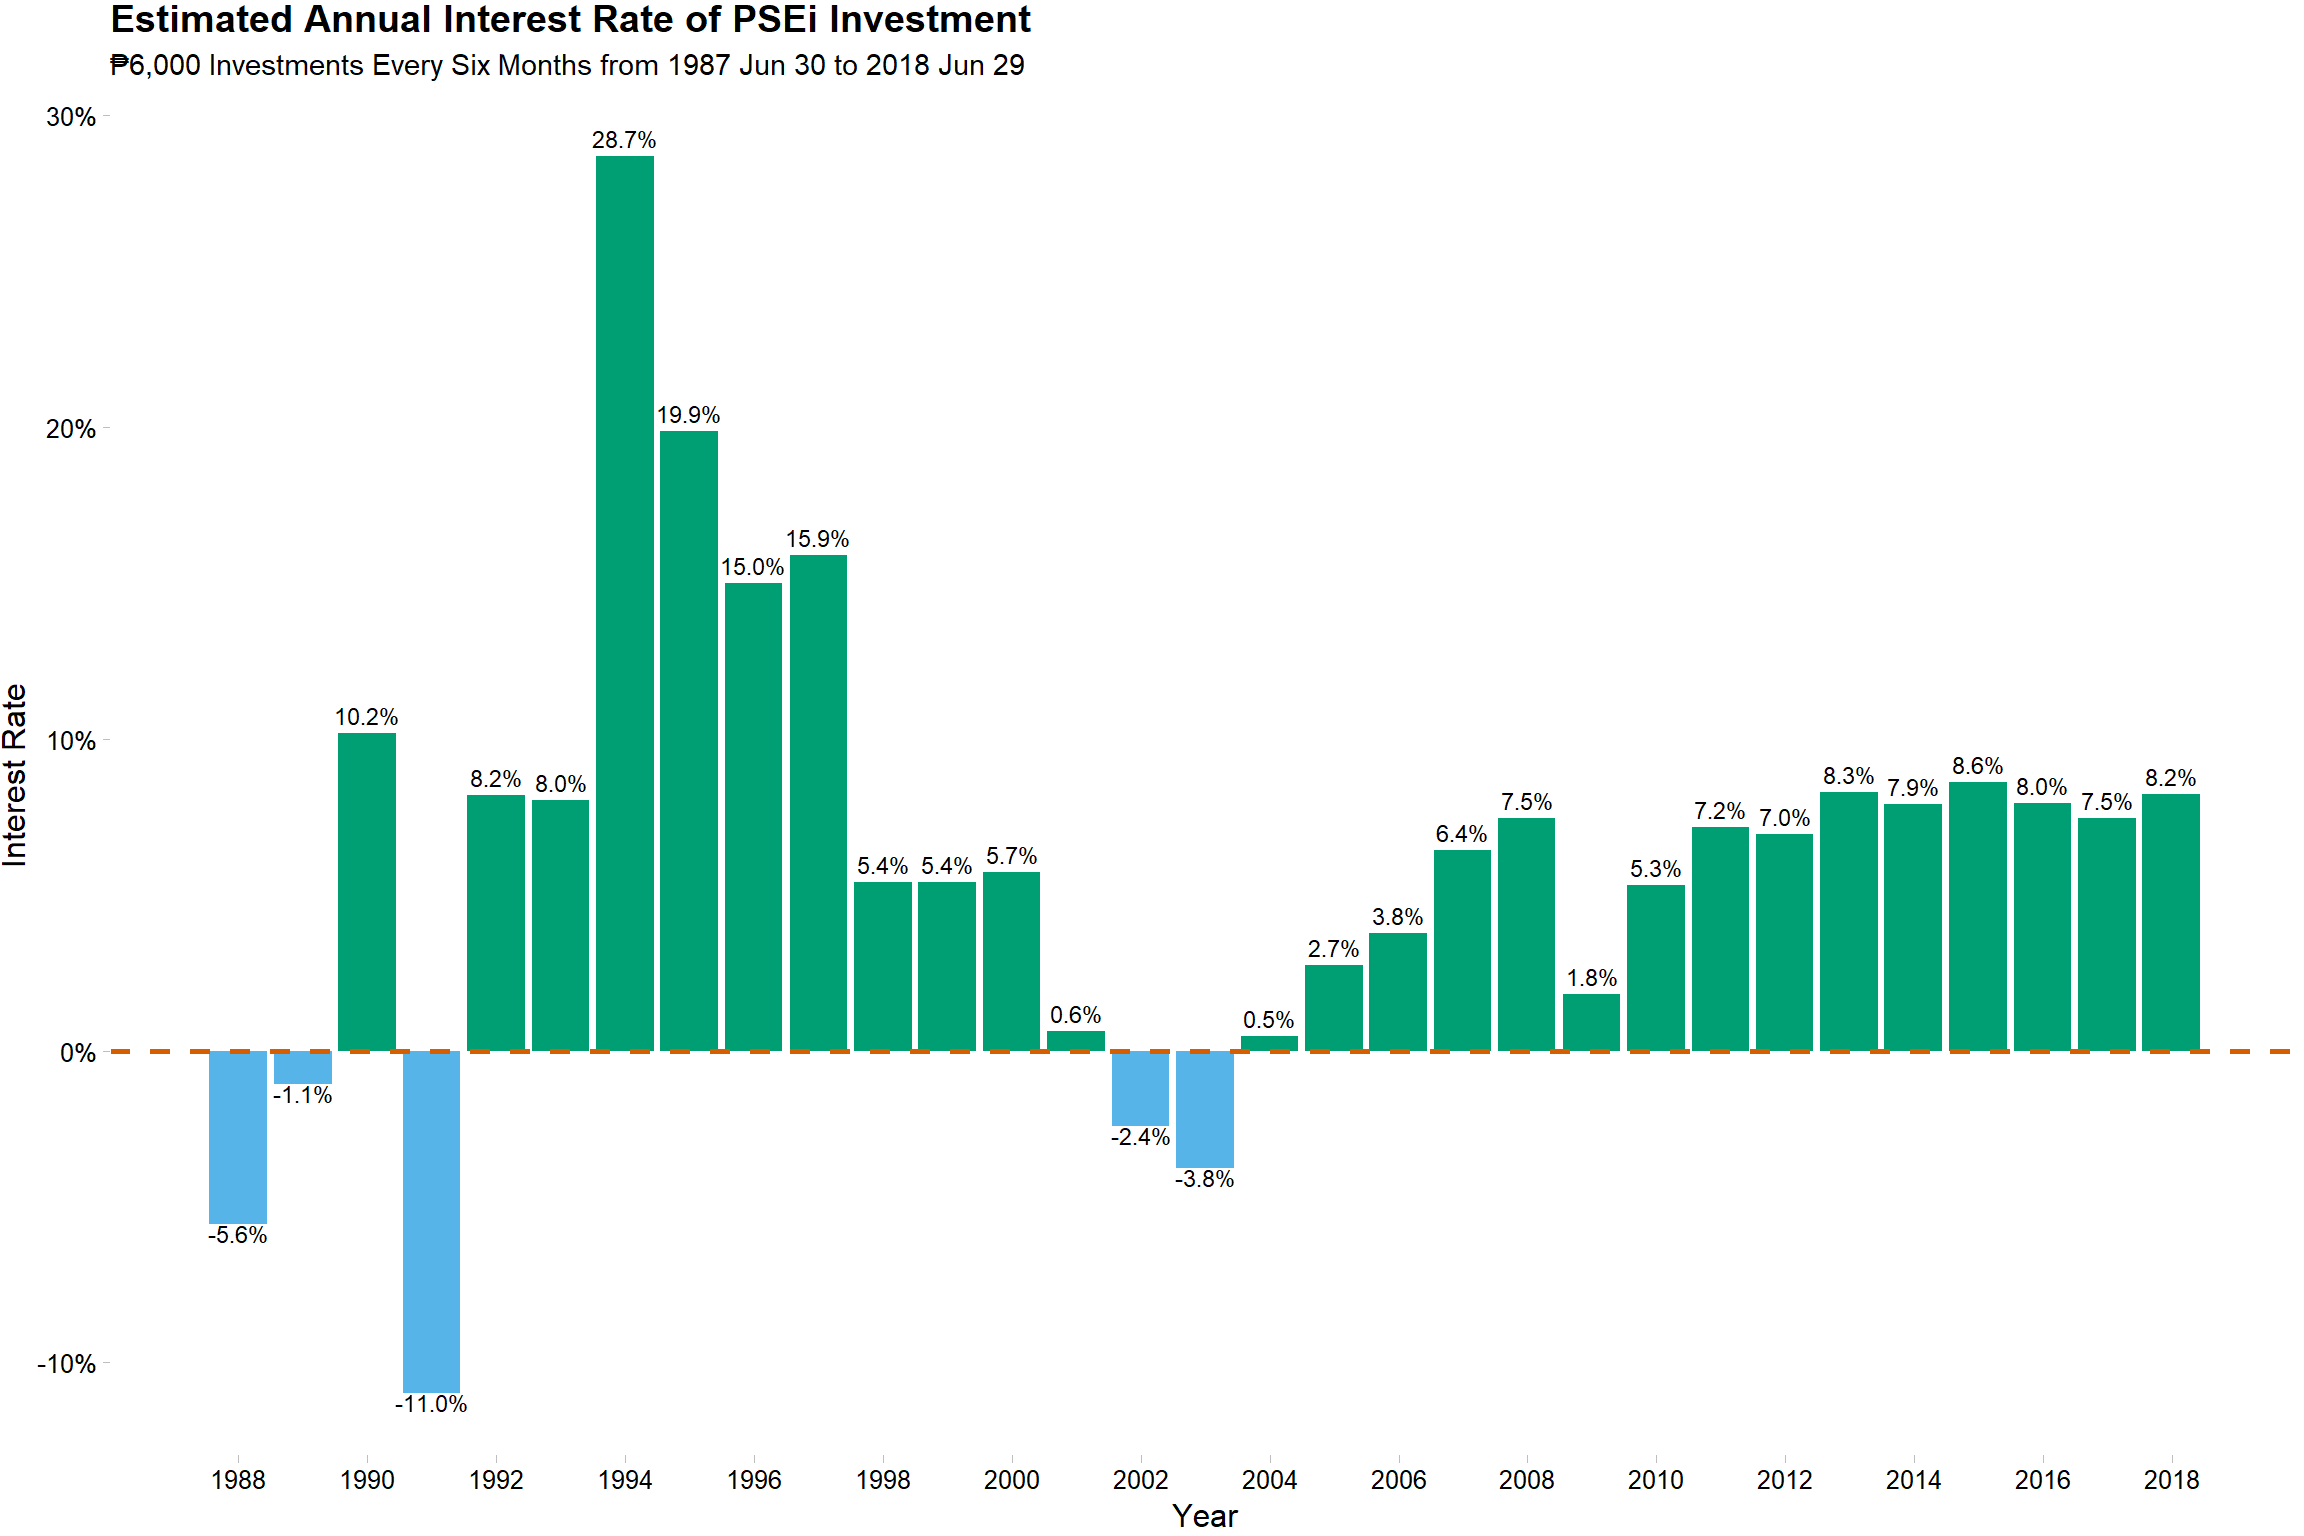
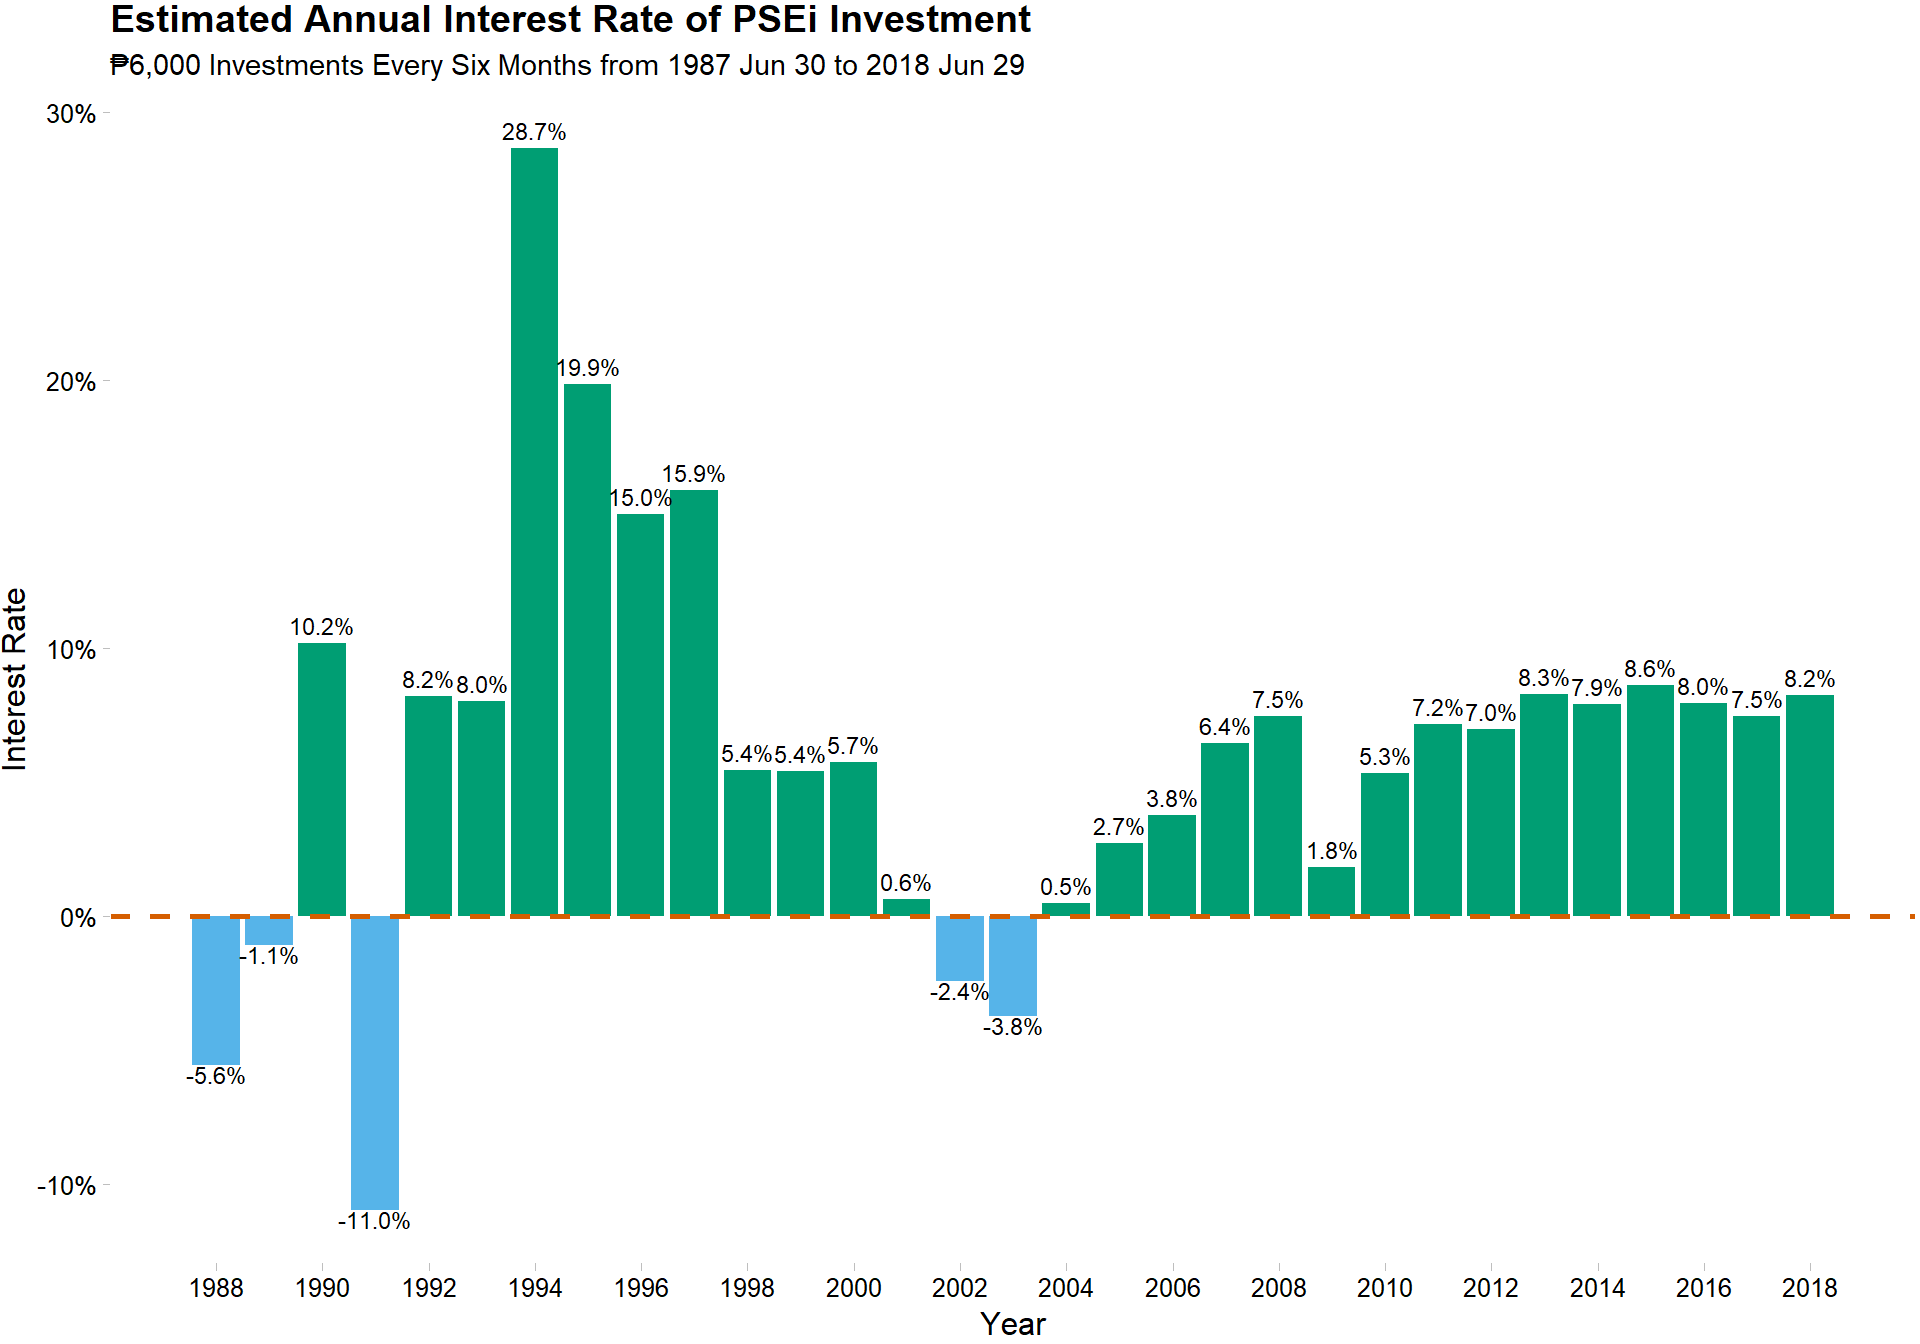
final edit before posting; made the graphs smaller, may opt for 10x7 from now on for all graphs

diff --git a/public/blog/three-decades-psei-prices-returns-naive-simulation/index.html b/public/blog/three-decades-psei-prices-returns-naive-simulation/index.html
@@ -169,8 +169,8 @@ opts_chunk$set(
   warning = FALSE,
   echo = TRUE,
   fig.align = &quot;center&quot;,
-  fig.width = 12,
-  fig.height = 8
+  fig.width = 10,
+  fig.height = 7
 )</code></pre>
 <div id="rise-and-fall-of-stocks" class="section level1">
 <h1>Rise and Fall of Stocks</h1>
@@ -295,7 +295,7 @@ min_price_date &lt;-
     y = &quot;Monthly Closing Price&quot;,
     caption = date_caption
   )</code></pre>
-<p><img src="/blog/2018-07-20-psei-prices-returns-simulation_files/figure-html/plot_psei_monthly-1.png" width="1152" style="display: block; margin: auto;" /></p>
+<p><img src="/blog/2018-07-20-psei-prices-returns-simulation_files/figure-html/plot_psei_monthly-1.png" width="960" style="display: block; margin: auto;" /></p>
 <p>Since 1987 Jun 30, the historical PSEi end-of-month closing prices show a typical stock behavior. The price goes up sometimes, then goes down, but after 31 years, the overall trend is up. It seems that if we invested money on PSEi on 1987 Jun 30, we would have a very good amount by 2018 Jun 29.</p>
 <p><strong>Trivia</strong>: The lowest end-of-month closing price of PSEi was at ₱516.21 on 1990 Oct 05, and the highest was at ₱9,058.62 on 2018 Jan 29.</p>
 </div>
@@ -352,7 +352,7 @@ min_return_date &lt;-
     y = &quot;Percent Return&quot;,
     caption = date_caption
   )</code></pre>
-<p><img src="/blog/2018-07-20-psei-prices-returns-simulation_files/figure-html/plot_psei_earnings-1.png" width="1152" style="display: block; margin: auto;" /></p>
+<p><img src="/blog/2018-07-20-psei-prices-returns-simulation_files/figure-html/plot_psei_earnings-1.png" width="960" style="display: block; margin: auto;" /></p>
 <p>The PSEi’s returns over time emphasizes a stock’s price volatility and randomness. Once we buy a stock, we cannot be sure if the next price will give us profits. It becomes more stressful if we keep seeing negative returns and wonder if we can wait for a positive return. That is assuming the price will be positive at some time in the future.</p>
 <p><strong>Trivia</strong>: The biggest monthly return of PSEi was 39.3% on 1998 Oct 30 and the lowest monthly return was -31.5% on 1987 Sep 30.</p>
 </div>
@@ -409,7 +409,7 @@ min_return_date &lt;-
     x = &quot;Year&quot;,
     y = &quot;Portfolio Value&quot;
   )</code></pre>
-<p><img src="/blog/2018-07-20-psei-prices-returns-simulation_files/figure-html/plot_buy_hold_simul-1.png" width="1152" style="display: block; margin: auto;" /></p>
+<p><img src="/blog/2018-07-20-psei-prices-returns-simulation_files/figure-html/plot_buy_hold_simul-1.png" width="960" style="display: block; margin: auto;" /></p>
 <p>Our hypothetical investor breaches the ₱1,000,000 mark long before the end of the simulation. The final value of the buy and hold portfolio is ₱1,410,142.</p>
 </div>
 </div>
@@ -502,7 +502,7 @@ min_return_date &lt;-
     x = &quot;Year&quot;,
     y = &quot;Interest Rate&quot;
   )</code></pre>
-<p><img src="/blog/2018-07-20-psei-prices-returns-simulation_files/figure-html/plot_annual_interest-1.png" width="1152" style="display: block; margin: auto;" /></p>
+<p><img src="/blog/2018-07-20-psei-prices-returns-simulation_files/figure-html/plot_annual_interest-1.png" width="960" style="display: block; margin: auto;" /></p>
 <pre class="r"><code>min_rate &lt;-
   annual_interest_rate_estimated %&gt;% 
   filter(avg_interest_rate == min(avg_interest_rate)) %&gt;% 

diff --git a/content/blog/2018-07-20-psei-prices-returns-simulation.html b/content/blog/2018-07-20-psei-prices-returns-simulation.html
@@ -53,8 +53,8 @@ opts_chunk$set(
   warning = FALSE,
   echo = TRUE,
   fig.align = &quot;center&quot;,
-  fig.width = 12,
-  fig.height = 8
+  fig.width = 10,
+  fig.height = 7
 )</code></pre>
 <div id="rise-and-fall-of-stocks" class="section level1">
 <h1>Rise and Fall of Stocks</h1>
@@ -179,7 +179,7 @@ min_price_date &lt;-
     y = &quot;Monthly Closing Price&quot;,
     caption = date_caption
   )</code></pre>
-<p><img src="/blog/2018-07-20-psei-prices-returns-simulation_files/figure-html/plot_psei_monthly-1.png" width="1152" style="display: block; margin: auto;" /></p>
+<p><img src="/blog/2018-07-20-psei-prices-returns-simulation_files/figure-html/plot_psei_monthly-1.png" width="960" style="display: block; margin: auto;" /></p>
 <p>Since 1987 Jun 30, the historical PSEi end-of-month closing prices show a typical stock behavior. The price goes up sometimes, then goes down, but after 31 years, the overall trend is up. It seems that if we invested money on PSEi on 1987 Jun 30, we would have a very good amount by 2018 Jun 29.</p>
 <p><strong>Trivia</strong>: The lowest end-of-month closing price of PSEi was at ₱516.21 on 1990 Oct 05, and the highest was at ₱9,058.62 on 2018 Jan 29.</p>
 </div>
@@ -236,7 +236,7 @@ min_return_date &lt;-
     y = &quot;Percent Return&quot;,
     caption = date_caption
   )</code></pre>
-<p><img src="/blog/2018-07-20-psei-prices-returns-simulation_files/figure-html/plot_psei_earnings-1.png" width="1152" style="display: block; margin: auto;" /></p>
+<p><img src="/blog/2018-07-20-psei-prices-returns-simulation_files/figure-html/plot_psei_earnings-1.png" width="960" style="display: block; margin: auto;" /></p>
 <p>The PSEi’s returns over time emphasizes a stock’s price volatility and randomness. Once we buy a stock, we cannot be sure if the next price will give us profits. It becomes more stressful if we keep seeing negative returns and wonder if we can wait for a positive return. That is assuming the price will be positive at some time in the future.</p>
 <p><strong>Trivia</strong>: The biggest monthly return of PSEi was 39.3% on 1998 Oct 30 and the lowest monthly return was -31.5% on 1987 Sep 30.</p>
 </div>
@@ -293,7 +293,7 @@ min_return_date &lt;-
     x = &quot;Year&quot;,
     y = &quot;Portfolio Value&quot;
   )</code></pre>
-<p><img src="/blog/2018-07-20-psei-prices-returns-simulation_files/figure-html/plot_buy_hold_simul-1.png" width="1152" style="display: block; margin: auto;" /></p>
+<p><img src="/blog/2018-07-20-psei-prices-returns-simulation_files/figure-html/plot_buy_hold_simul-1.png" width="960" style="display: block; margin: auto;" /></p>
 <p>Our hypothetical investor breaches the ₱1,000,000 mark long before the end of the simulation. The final value of the buy and hold portfolio is ₱1,410,142.</p>
 </div>
 </div>
@@ -386,7 +386,7 @@ min_return_date &lt;-
     x = &quot;Year&quot;,
     y = &quot;Interest Rate&quot;
   )</code></pre>
-<p><img src="/blog/2018-07-20-psei-prices-returns-simulation_files/figure-html/plot_annual_interest-1.png" width="1152" style="display: block; margin: auto;" /></p>
+<p><img src="/blog/2018-07-20-psei-prices-returns-simulation_files/figure-html/plot_annual_interest-1.png" width="960" style="display: block; margin: auto;" /></p>
 <pre class="r"><code>min_rate &lt;-
   annual_interest_rate_estimated %&gt;% 
   filter(avg_interest_rate == min(avg_interest_rate)) %&gt;% 
